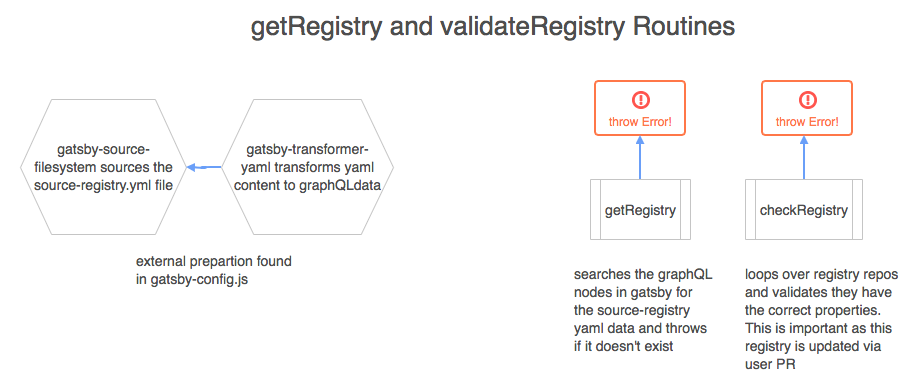
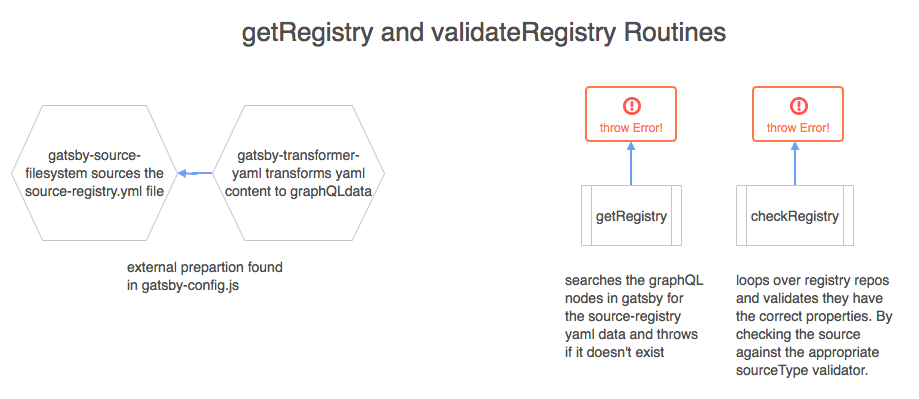
update docs

diff --git a/docs/siphon.md b/docs/siphon.md
@@ -10,8 +10,10 @@ Devhub is a content catalogue generator. **Siphon** is Devhub's main tool that *
 -   [Flow Charts](#routine-flow)
     - [Main Routine](#main-routine-flow)
     - [Fetching/Validating The Registry](#registry)
-    - [Fetching Files from repositories](#fetch-files-from-repo)
+    - [Fetching Files By A Source Type](#fetch-files-from-source)
+        - [Fetching Files from Github Repositories repositories](#fetchgithubsource-fetch-files-from-repos)
     - [Transforming Files with the FileTransformer Pipeline](#file-transformer)
+-   [Fetching Files By Sources Authoring](#authoring-a-fetch-routine)
 -   [File Transfomer Pipeline](#the-file-transformer)
     - [Transfomer Usage](#transformer-usage)
     - [Transformer Plugin Authoring](#transformer-plugin-authoring)
@@ -39,13 +41,35 @@ In addition, they lacked the ability to control things like **mime types** for r
 #### Registry
 <img src="./images/registry-routine.png">
 
-#### Fetch Files From Repo
+#### Fetch Files From Source
 
-<img src="./images/fetch-files-from-repo.png">
+Sources are fetched based on their source type. The source type is mapped against 
+a fetching function which returns a normalized datastructure on return.
+
+<img src="./images/fetch-from-source-routine.png">
+
+##### Fetching Functions
+
+###### fetchGithubSource (fetch files from repos)
+<img src="./images/fetch-source-github.png">
 
 #### File Transformer
 
 <img src="./images/file-transformer.png">
+
+## Authoring A Source Fetch Routine
+
+Because Siphon has the ability to collect data from several sources it is important that
+when sources are *sourced* they return a standardized object which Siphon can then use to create
+nodes. Currently the standardized object is just a plain javascript object but future implementations
+would more than likely involve an instance of a **Class the implements a Source Interface**.
+
+### Things to Consider
+
+- Have you added to the `SOURCE_TYPES` constant the source you are attempting to fetch?
+- Have you created a validation function to validate the `sourceProperties` that are made available to your source
+from the source registry?
+- Have you created a fetch routine that returns the standard metadata required (see the githubsource fn for more info)
 
 ## The File Transformer
 
